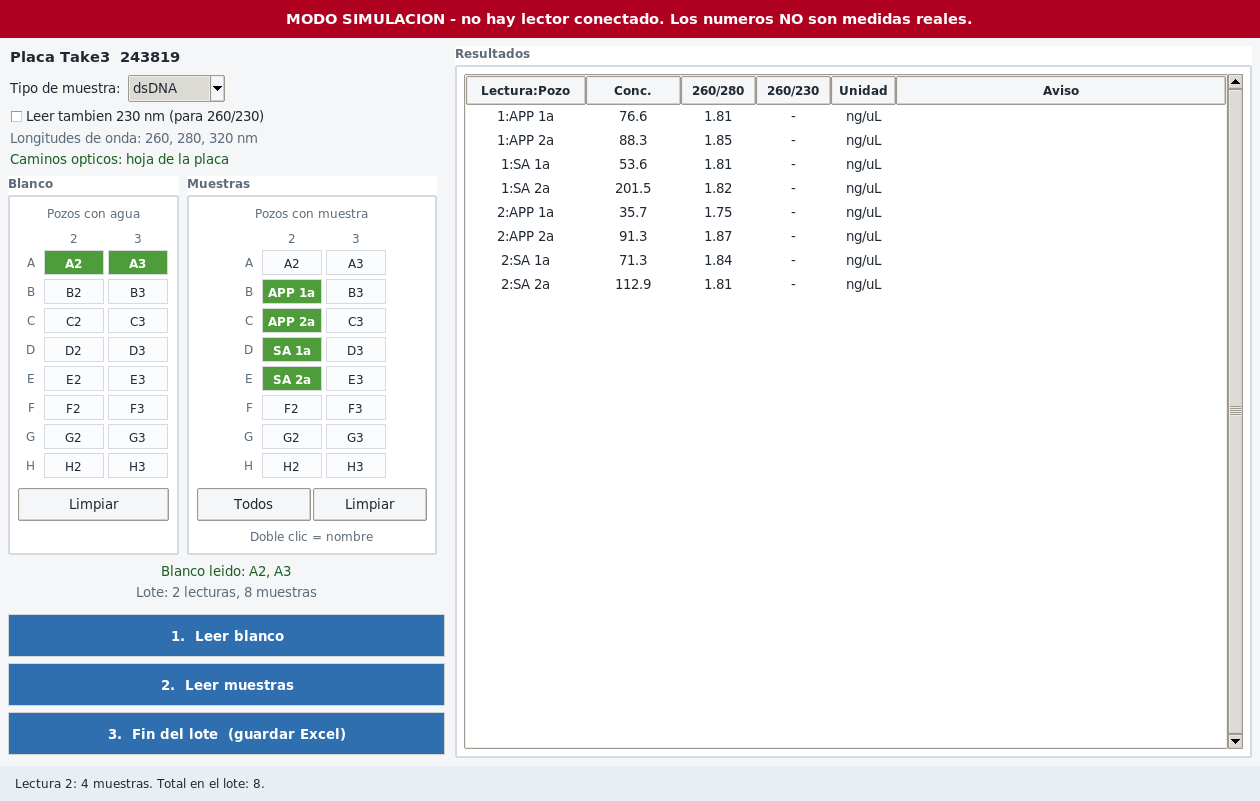
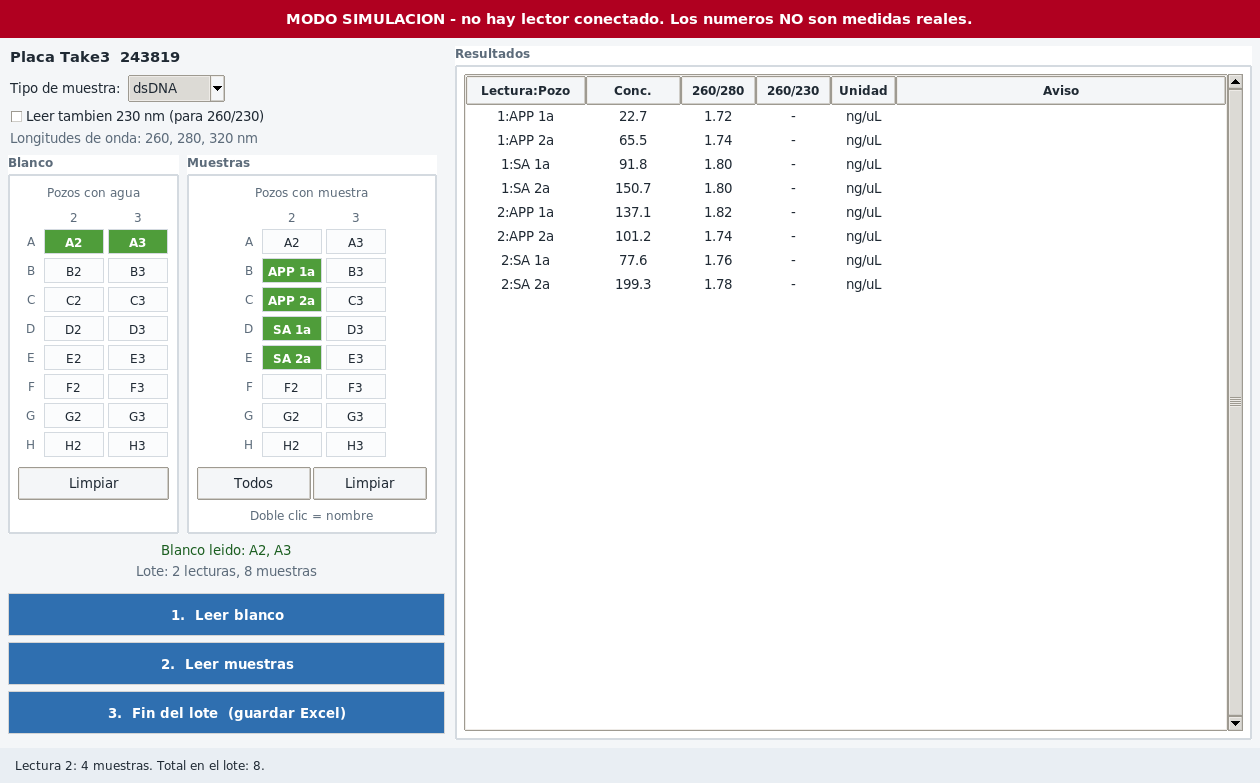
Show the pathlength basis only when it is not the normal case
On screen it was provenance the user could not act on. It stays in the Excel
for traceability. When the plate's calibration sheet is missing the software
falls back to 0.5 mm nominal and results shift by up to 2.4%, so that case is
now a red warning instead of a quiet green line.

Adds docs/writeup.html, a page about the project for the group.

diff --git a/docs/writeup.html b/docs/writeup.html
@@ -1,0 +1,257 @@
+<title>Epoch Sin Licencia</title>
+<meta name="claude:viewport-fit-sides" content="cover">
+<style>
+/* Layout: a single reading column of lab-report width, with full-bleed bands for
+   the result tables and the instrument panel. Palette from the instrument itself:
+   housing graphite, data-sheet paper, the UV violet of the 260 nm line, and the
+   green the software uses for "measured". */
+:root {
+  --paper:      #f7f5f1;
+  --panel:      #ffffff;
+  --ink:        #1c1f26;
+  --ink-soft:   #5a6472;
+  --rule:       #ded8cd;
+  --uv:         #5b3fa8;
+  --measured:   #2f6b3a;
+  --alert:      #a4322c;
+  --band:       #22262f;
+  --band-ink:   #e8e6e1;
+
+  --display: "IBM Plex Sans", "Helvetica Neue", Arial, sans-serif;
+  --body:    "Source Serif 4", Georgia, "Times New Roman", serif;
+  --data:    "IBM Plex Mono", "SF Mono", Menlo, Consolas, monospace;
+}
+@media (prefers-color-scheme: dark) {
+  :root:not([data-theme="light"]) {
+    --paper:    #15181e;
+    --panel:    #1d212a;
+    --ink:      #e6e4e0;
+    --ink-soft: #9aa3b2;
+    --rule:     #343a45;
+    --uv:       #b49ef0;
+    --measured: #7cc48c;
+    --alert:    #e8897f;
+    --band:     #0f1216;
+    --band-ink: #e6e4e0;
+    color-scheme: dark;
+  }
+}
+:root[data-theme="dark"] {
+  --paper:    #15181e;
+  --panel:    #1d212a;
+  --ink:      #e6e4e0;
+  --ink-soft: #9aa3b2;
+  --rule:     #343a45;
+  --uv:       #b49ef0;
+  --measured: #7cc48c;
+  --alert:    #e8897f;
+  --band:     #0f1216;
+  --band-ink: #e6e4e0;
+  color-scheme: dark;
+}
+
+body { background: var(--paper); color: var(--ink); font-family: var(--body); line-height: 1.6; }
+.wrap {
+  max-width: 54rem; margin: 0 auto;
+  padding-left: max(16px, env(safe-area-inset-left, 0px));
+  padding-right: max(16px, env(safe-area-inset-right, 0px));
+  padding-block: 0;
+}
+h1, h2, h3, .eyebrow, .stat-n, th, .btn { font-family: var(--display); }
+h1 { font-size: clamp(2rem, 6vw, 3.1rem); line-height: 1.08; font-weight: 600; letter-spacing: -0.02em; text-wrap: balance; margin: 0 0 .6rem; }
+h2 { font-size: clamp(1.25rem, 3vw, 1.6rem); font-weight: 600; letter-spacing: -0.01em; text-wrap: balance; margin: 0 0 .2rem; }
+h3 { font-size: 1rem; font-weight: 600; margin: 0 0 .35rem; }
+p { margin: 0 0 1rem; }
+a { color: var(--uv); }
+.eyebrow { font-size: .72rem; text-transform: uppercase; letter-spacing: .14em; color: var(--ink-soft); font-weight: 600; }
+
+header.hero { padding-block: clamp(2.5rem, 7vw, 4.5rem) clamp(1.5rem, 4vw, 2.5rem); border-bottom: 1px solid var(--rule); }
+.lede { font-size: clamp(1.05rem, 2.4vw, 1.25rem); color: var(--ink-soft); max-width: 40rem; margin: 0; }
+.meta { display: flex; flex-wrap: wrap; gap: .4rem 1.4rem; margin-top: 1.6rem; font-family: var(--data); font-size: .78rem; color: var(--ink-soft); }
+
+section { padding-block: clamp(2rem, 5vw, 3rem); border-bottom: 1px solid var(--rule); }
+section:last-of-type { border-bottom: 0; }
+.section-head { margin-bottom: 1.4rem; }
+
+.stats { display: grid; grid-template-columns: repeat(auto-fit, minmax(10rem, 1fr)); gap: 1px; background: var(--rule); border: 1px solid var(--rule); margin: 1.6rem 0 0; }
+.stat { background: var(--panel); padding: 1.1rem 1.2rem; min-width: 0; }
+.stat-n { font-size: clamp(1.5rem, 4vw, 2rem); font-weight: 600; letter-spacing: -0.02em; font-variant-numeric: tabular-nums; color: var(--uv); }
+.stat-l { font-size: .8rem; color: var(--ink-soft); margin-top: .15rem; }
+
+.tablewrap { overflow-x: auto; border: 1px solid var(--rule); background: var(--panel); }
+table { border-collapse: collapse; width: 100%; font-family: var(--data); font-size: .84rem; font-variant-numeric: tabular-nums; }
+th, td { padding: .55rem .8rem; text-align: right; border-bottom: 1px solid var(--rule); white-space: nowrap; }
+th { font-size: .7rem; text-transform: uppercase; letter-spacing: .08em; color: var(--ink-soft); font-weight: 600; background: var(--paper); }
+th:first-child, td:first-child { text-align: left; }
+tbody tr:last-child td { border-bottom: 0; }
+td.good { color: var(--measured); }
+td.bad { color: var(--alert); }
+caption { caption-side: bottom; text-align: left; font-family: var(--body); font-size: .84rem; color: var(--ink-soft); padding: .7rem .8rem 0; }
+
+.band { background: var(--band); color: var(--band-ink); }
+.band .wrap { padding-block: clamp(2rem, 5vw, 3rem); }
+.band h2, .band h3 { color: var(--band-ink); }
+.band p { color: #b9bfca; }
+.band .eyebrow { color: #8d96a5; }
+
+figure { margin: 0; }
+figure img { display: block; width: 100%; border: 1px solid var(--rule); background: var(--panel); }
+figcaption { font-size: .84rem; color: var(--ink-soft); margin-top: .6rem; }
+
+.cols { display: grid; grid-template-columns: repeat(auto-fit, minmax(14rem, 1fr)); gap: 1.6rem; }
+.cols > * { min-width: 0; }
+
+.callout { border-left: 3px solid var(--uv); padding: .2rem 0 .2rem 1.1rem; margin: 1.4rem 0; }
+.callout p:last-child { margin-bottom: 0; }
+
+code { font-family: var(--data); font-size: .88em; background: color-mix(in srgb, var(--uv) 10%, transparent); padding: .1em .35em; border-radius: 2px; }
+pre { font-family: var(--data); font-size: .8rem; background: var(--panel); border: 1px solid var(--rule); padding: .9rem 1rem; overflow-x: auto; margin: 0 0 1rem; line-height: 1.5; }
+
+ul.plain { list-style: none; padding: 0; margin: 0 0 1rem; }
+ul.plain li { padding-left: 1.1rem; position: relative; margin-bottom: .5rem; }
+ul.plain li::before { content: ""; position: absolute; left: 0; top: .62em; width: .4rem; height: 1px; background: var(--ink-soft); }
+
+footer { padding-block: 2.5rem 3.5rem; font-size: .85rem; color: var(--ink-soft); }
+</style>
+
+<link rel="stylesheet" href="https://fonts.googleapis.com/css2?family=IBM+Plex+Sans:wght@400;600&family=IBM+Plex+Mono:wght@400;600&family=Source+Serif+4:opsz,wght@8..60,400;8..60,600&display=swap">
+
+<header class="hero">
+  <div class="wrap">
+    <p class="eyebrow">Laboratorio &middot; 26 octubre 2026</p>
+    <h1>Un lector de placas que volvió a funcionar</h1>
+    <p class="lede">El Epoch quedó inutilizable porque el contador de licencias del software llegó a cinco. En un día pasó a leer placas con software libre, que coincide con el del fabricante dentro del 0,5 %.</p>
+    <div class="meta">
+      <span>BioTek Epoch &middot; P/N 7200201</span>
+      <span>Firmware 1.12</span>
+      <span>Placa Take3 243819</span>
+    </div>
+  </div>
+</header>
+
+<section>
+  <div class="wrap">
+    <div class="section-head">
+      <p class="eyebrow">El problema</p>
+      <h2>El instrumento estaba bien; el contador no</h2>
+    </div>
+    <p>El espectrofotómetro funcionaba perfectamente. Lo que se agotó fue el número de activaciones de la licencia del software que lo controla. Sin ese programa, un equipo que mide ADN y ARN todos los días no sirve para nada.</p>
+    <p>La vía legítima es la interoperabilidad: escribir software nuevo que hable con un instrumento que el laboratorio ya posee. Nada de lo que sigue tocó, modificó ni inspeccionó el programa del fabricante.</p>
+    <div class="stats">
+      <div class="stat"><div class="stat-n">0,5 %</div><div class="stat-l">diferencia con el software del fabricante</div></div>
+      <div class="stat"><div class="stat-n">2,0×</div><div class="stat-l">más rápido por lectura</div></div>
+      <div class="stat"><div class="stat-n">176</div><div class="stat-l">pruebas automáticas</div></div>
+      <div class="stat"><div class="stat-n">0</div><div class="stat-l">costo de licencia</div></div>
+    </div>
+  </div>
+</section>
+
+<section>
+  <div class="wrap">
+    <div class="section-head">
+      <p class="eyebrow">Cómo se resolvió</p>
+      <h2>El instrumento habla por un puerto serie corriente</h2>
+    </div>
+    <div class="cols">
+      <div>
+        <h3>1. El transporte</h3>
+        <p>Los discos originales traían el driver FTDI estándar, no uno propietario. El lector aparece como un puerto serie común y se abre con <code>pyserial</code>. En Linux no necesita ningún driver.</p>
+      </div>
+      <div>
+        <h3>2. El protocolo</h3>
+        <p>Comandos de un solo carácter, respuestas entre <code>ACK</code> y <code>ETX</code>. El lector contestó su número de serie al primer intento, a 9600 baudios, 8-N-2.</p>
+      </div>
+      <div>
+        <h3>3. Las lecturas</h3>
+        <p>Capturas USB del software del fabricante conduciendo el equipo, decodificadas con un lector de capturas escrito para el caso.</p>
+      </div>
+    </div>
+    <div class="callout">
+      <p><strong>El hallazgo que desbloqueó todo.</strong> El firmware 1.12 responde <code>0</code> a la consulta de capacidad 2064. Si se le envía igual el campo de óptica extendida, el lector rechaza la lectura con el estado <code>2D06</code>. Quitando ese campo, las lecturas funcionan. Es el mismo síntoma que otro usuario reportó sin respuesta en el foro de PyLabRobot.</p>
+    </div>
+  </div>
+</section>
+
+<div class="band">
+  <div class="wrap">
+    <p class="eyebrow">La prueba</p>
+    <h2 style="margin-bottom:1rem">Las mismas gotas, los dos programas</h2>
+    <p style="max-width:40rem">Escalera de ADN GeneRuler 100 pb. Se leyó con el software del fabricante y con el nuevo sobre las mismas gotas, con el mismo blanco y el mismo pozo de referencia, con 3 min 31 s de diferencia.</p>
+    <div class="tablewrap" style="margin-top:1.4rem">
+      <table>
+        <caption>Concentraciones en ng/µL y razón 260/280. A2 y B2 sin diluir, C2 y D2 diluidos 1:10.</caption>
+        <thead>
+          <tr><th>Pozo</th><th>Fabricante</th><th>Nuevo</th><th>Dif.</th><th>260/280 fab.</th><th>260/280 nuevo</th></tr>
+        </thead>
+        <tbody>
+          <tr><td>A2</td><td>422,93</td><td>424,68</td><td class="good">+0,42 %</td><td>1,853</td><td>1,856</td></tr>
+          <tr><td>B2</td><td>428,40</td><td>430,97</td><td class="good">+0,60 %</td><td>1,856</td><td>1,854</td></tr>
+          <tr><td>C2</td><td>22,52</td><td>23,11</td><td class="good">+2,64 %</td><td>1,831</td><td>1,835</td></tr>
+          <tr><td>D2</td><td>47,61</td><td>47,31</td><td class="good">&minus;0,63 %</td><td>1,810</td><td>1,812</td></tr>
+        </tbody>
+      </table>
+    </div>
+    <p style="margin-top:1.3rem">C2 leyó la mitad de lo que debía en los dos programas. Era una gota mal cargada, y los dos sistemas la detectaron por separado con el mismo veredicto. Eso es más difícil de falsear que una coincidencia en una gota buena.</p>
+  </div>
+</div>
+
+<section>
+  <div class="wrap">
+    <div class="section-head">
+      <p class="eyebrow">El programa</p>
+      <h2>Pensado para quien lo usa todos los días</h2>
+    </div>
+    <figure>
+      <img src="gui.png" alt="Ventana del programa: cuadrícula de la placa Take3 para el blanco y para las muestras, y tabla de resultados con concentraciones y avisos.">
+      <figcaption>Dos cuadrículas, una para el blanco y otra para las muestras, siguiendo la disposición del programa original. Doble clic en un pozo para nombrar la muestra. El lote se acumula entre cargas de placa y se guarda en un solo Excel.</figcaption>
+    </figure>
+    <div class="cols" style="margin-top:2rem">
+      <div>
+        <h3>Avisos en castellano</h3>
+        <p>Cuando algo sale mal, la fila dice qué pasó y qué hacer, al lado de la muestra afectada. El programa original marca la celda en amarillo y deja una leyenda al pie.</p>
+      </div>
+      <div>
+        <h3>Revisa el blanco antes</h3>
+        <p>Si los pozos del blanco no coinciden entre sí, avisa antes de gastar una sola muestra. La primera vez que se usó con datos reales encontró un pozo malo.</p>
+      </div>
+      <div>
+        <h3>Sin configurar nada</h3>
+        <p>Encuentra el lector por su número de serie. No hay puerto COM que elegir. Si no hay instrumento, abre en modo simulación con un aviso rojo imposible de ignorar.</p>
+      </div>
+    </div>
+  </div>
+</section>
+
+<section>
+  <div class="wrap">
+    <div class="section-head">
+      <p class="eyebrow">Lo que no está probado</p>
+      <h2>Tres cosas quedaron abiertas</h2>
+    </div>
+    <ul class="plain">
+      <li><strong>Deriva del blanco en sesiones largas.</strong> El blanco se lee una vez y se usa durante horas. Si la lámpara deriva, los últimos lotes heredan el error y los números siguen pareciendo normales. Sin medir.</li>
+      <li><strong>Exactitud absoluta.</strong> Los dos programas coinciden entre sí, pero ambos leen un 12 % por debajo del valor nominal de la escalera. Sin material certificado no hay forma de saber quién tiene razón.</li>
+      <li><strong>La técnica todavía no lo ha usado.</strong> Toda la interfaz es una inferencia a partir de las pantallas del programa original. Su primera sesión encontrará cosas que nadie previó.</li>
+    </ul>
+    <p>Hay además una nota de servicio de 2011 en la que este lector falló la prueba de exactitud de longitud de onda (leyó 500 nm contra una referencia de 505). Podría sesgar ligeramente la razón 260/280. Está documentado por si aparece.</p>
+  </div>
+</section>
+
+<section>
+  <div class="wrap">
+    <div class="section-head">
+      <p class="eyebrow">Dónde está</p>
+      <h2>Código abierto, con las capturas</h2>
+    </div>
+    <p>El repositorio incluye el programa, las 176 pruebas automáticas, la documentación del protocolo y de cómo se dedujo el cálculo de concentraciones, y las capturas USB del firmware 1.12. Licencia MIT.</p>
+    <pre>github.com/gabo-ing/epoch-biotek-open</pre>
+    <p>Las capturas se publican porque el trabajo previo de PyLabRobot da ese firmware como no verificado, y los datos de prueba de su parche son sintéticos. Estos son reales. Para otro laboratorio con otro Epoch, basta un archivo de configuración con los espesores de gota de su propia placa.</p>
+    <p style="color:var(--ink-soft)">Crédito a PyLabRobot, de donde salió el vocabulario de comandos y el marco de los mensajes. Sin ese trabajo esto habría tomado semanas en vez de un día.</p>
+  </div>
+</section>
+
+<footer>
+  <div class="wrap">
+    <p>Epoch 254717 &middot; firmware 1.12 &middot; placa Take3 243819 &middot; validado el 26 de octubre de 2026 contra Gen5 1.11.5.</p>
+  </div>
+</footer>

diff --git a/epoch_open/gui.py b/epoch_open/gui.py
@@ -40,8 +40,9 @@ TEXT = {
     # "Camino optico" is the correct term and it is what the data sheet says, but
     # it told the reader nothing. The physical quantity is how thick the drop is
     # where the light crosses it, so the label says that.
-    "path_sheet": "Espesor de gota: medido pozo a pozo (hoja de la placa {serial})",
-    "path_nominal": "Espesor de gota: 0,5 mm nominal (sin hoja de la placa)",
+    # Only the fallback is shown on screen; both go into the Excel.
+    "path_nominal": ("Sin hoja de calibracion de esta placa: se usa 0,5 mm "
+                     "nominal, las concentraciones pueden desviarse ~2%."),
     "blank_pending": "Falta leer el blanco",
     "blank_done": "Blanco leido: {wells}",
     "batch_empty": "Lote vacio",
@@ -249,11 +250,13 @@ class App(tk.Tk):
         self.wavelength_label = ttk.Label(frame, text="", style="Muted.TLabel")
         self.wavelength_label.pack(anchor="w")
 
-        basis = (TEXT["path_sheet"].format(serial=PLATE_SERIAL) if self.pathlengths
-                 else TEXT["path_nominal"])
-        ttk.Label(frame, text=basis,
-                  style="Good.TLabel" if self.pathlengths else "Muted.TLabel"
-                  ).pack(anchor="w")
+        # Shown only when it is not the normal case. With the plate's own sheet
+        # loaded there is nothing for the user to do about it, and it goes in the
+        # Excel either way for traceability. Without the sheet the results are up
+        # to 2.4% off, which she should see.
+        if not self.pathlengths:
+            ttk.Label(frame, text=TEXT["path_nominal"],
+                      style="Bad.TLabel", wraplength=330).pack(anchor="w")
 
     def _build_grid(self, parent, title, selection, buttons, nameable) -> None:
         frame = ttk.LabelFrame(parent, text=title, padding=8,
